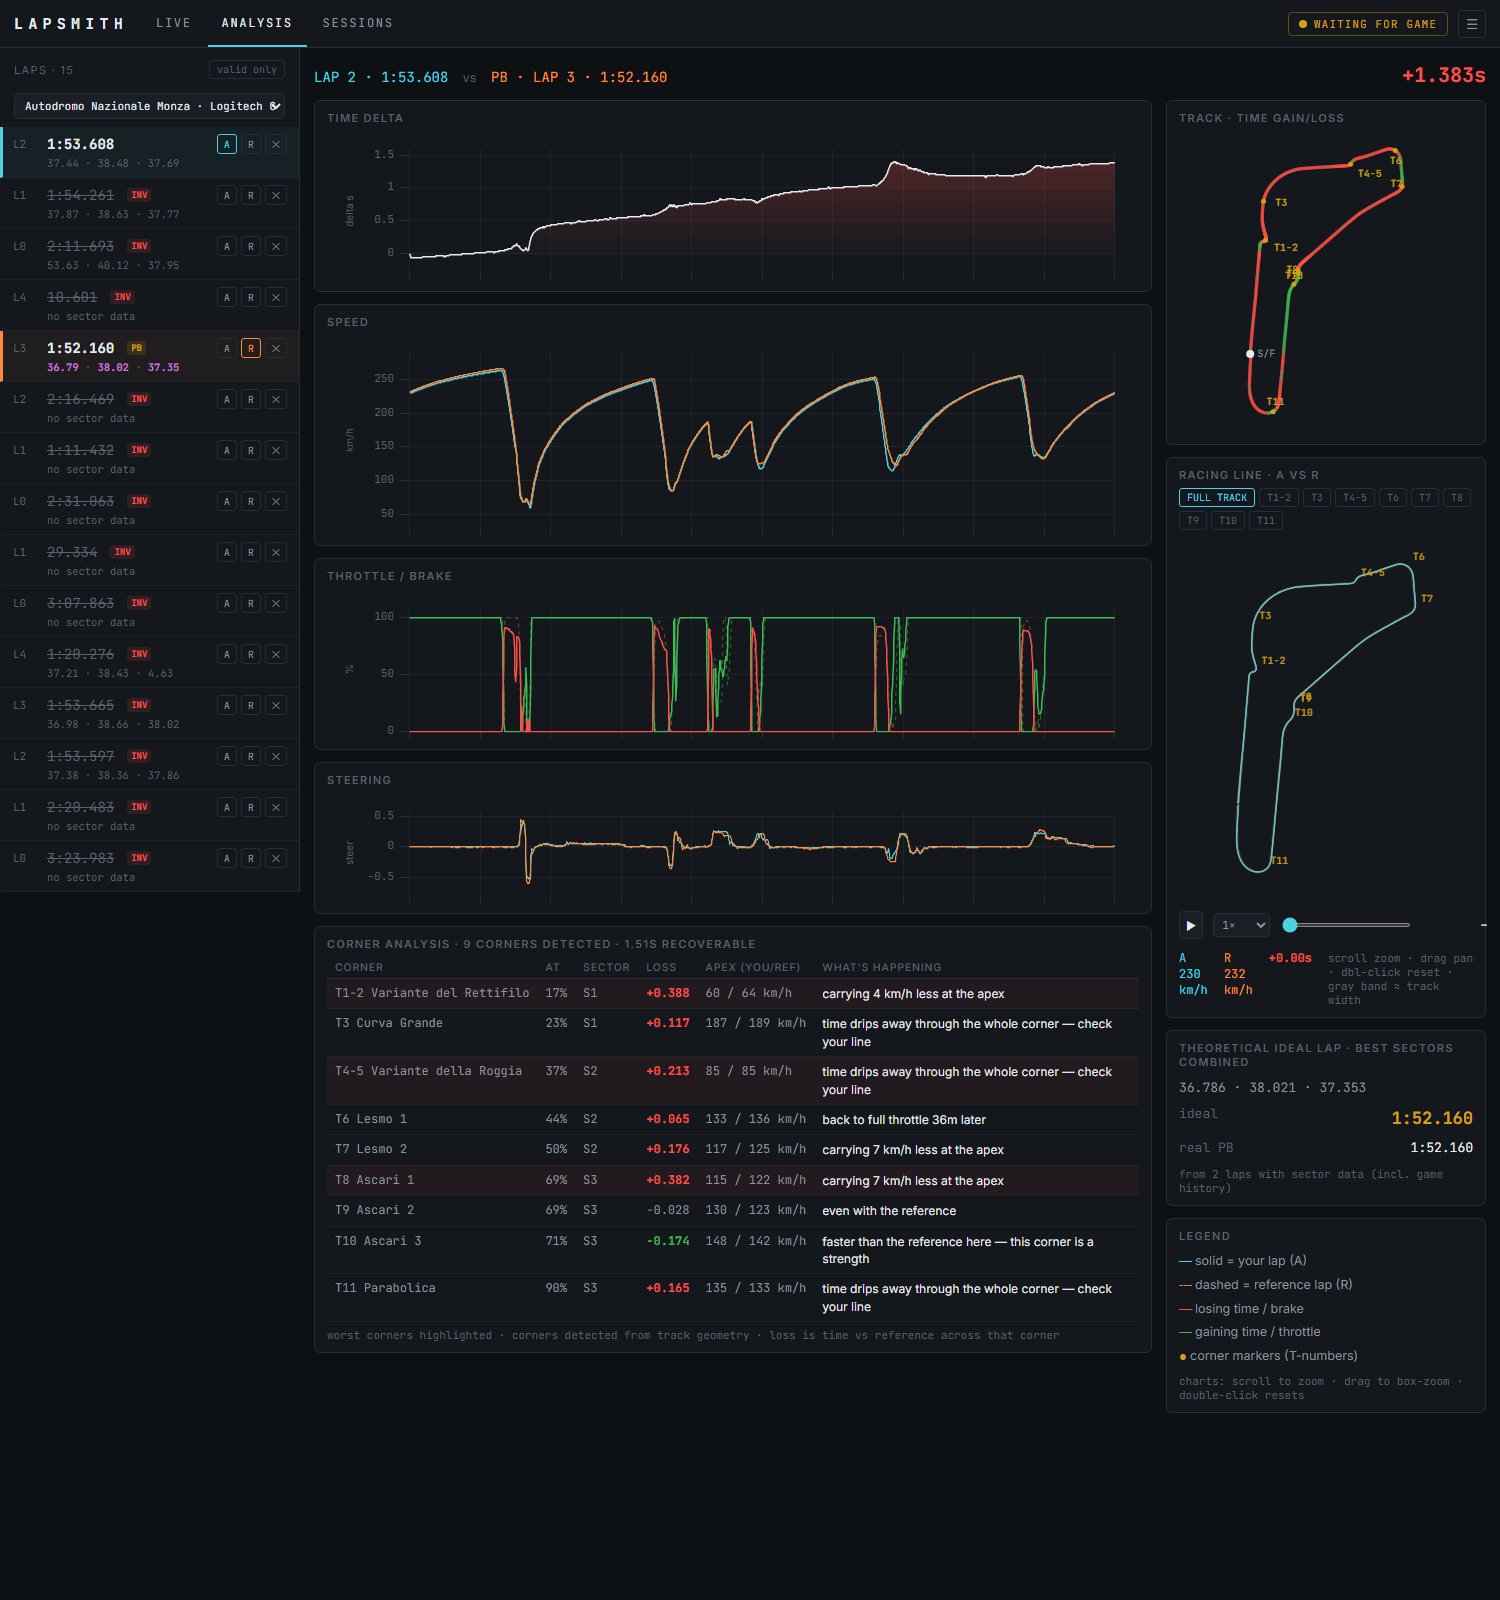
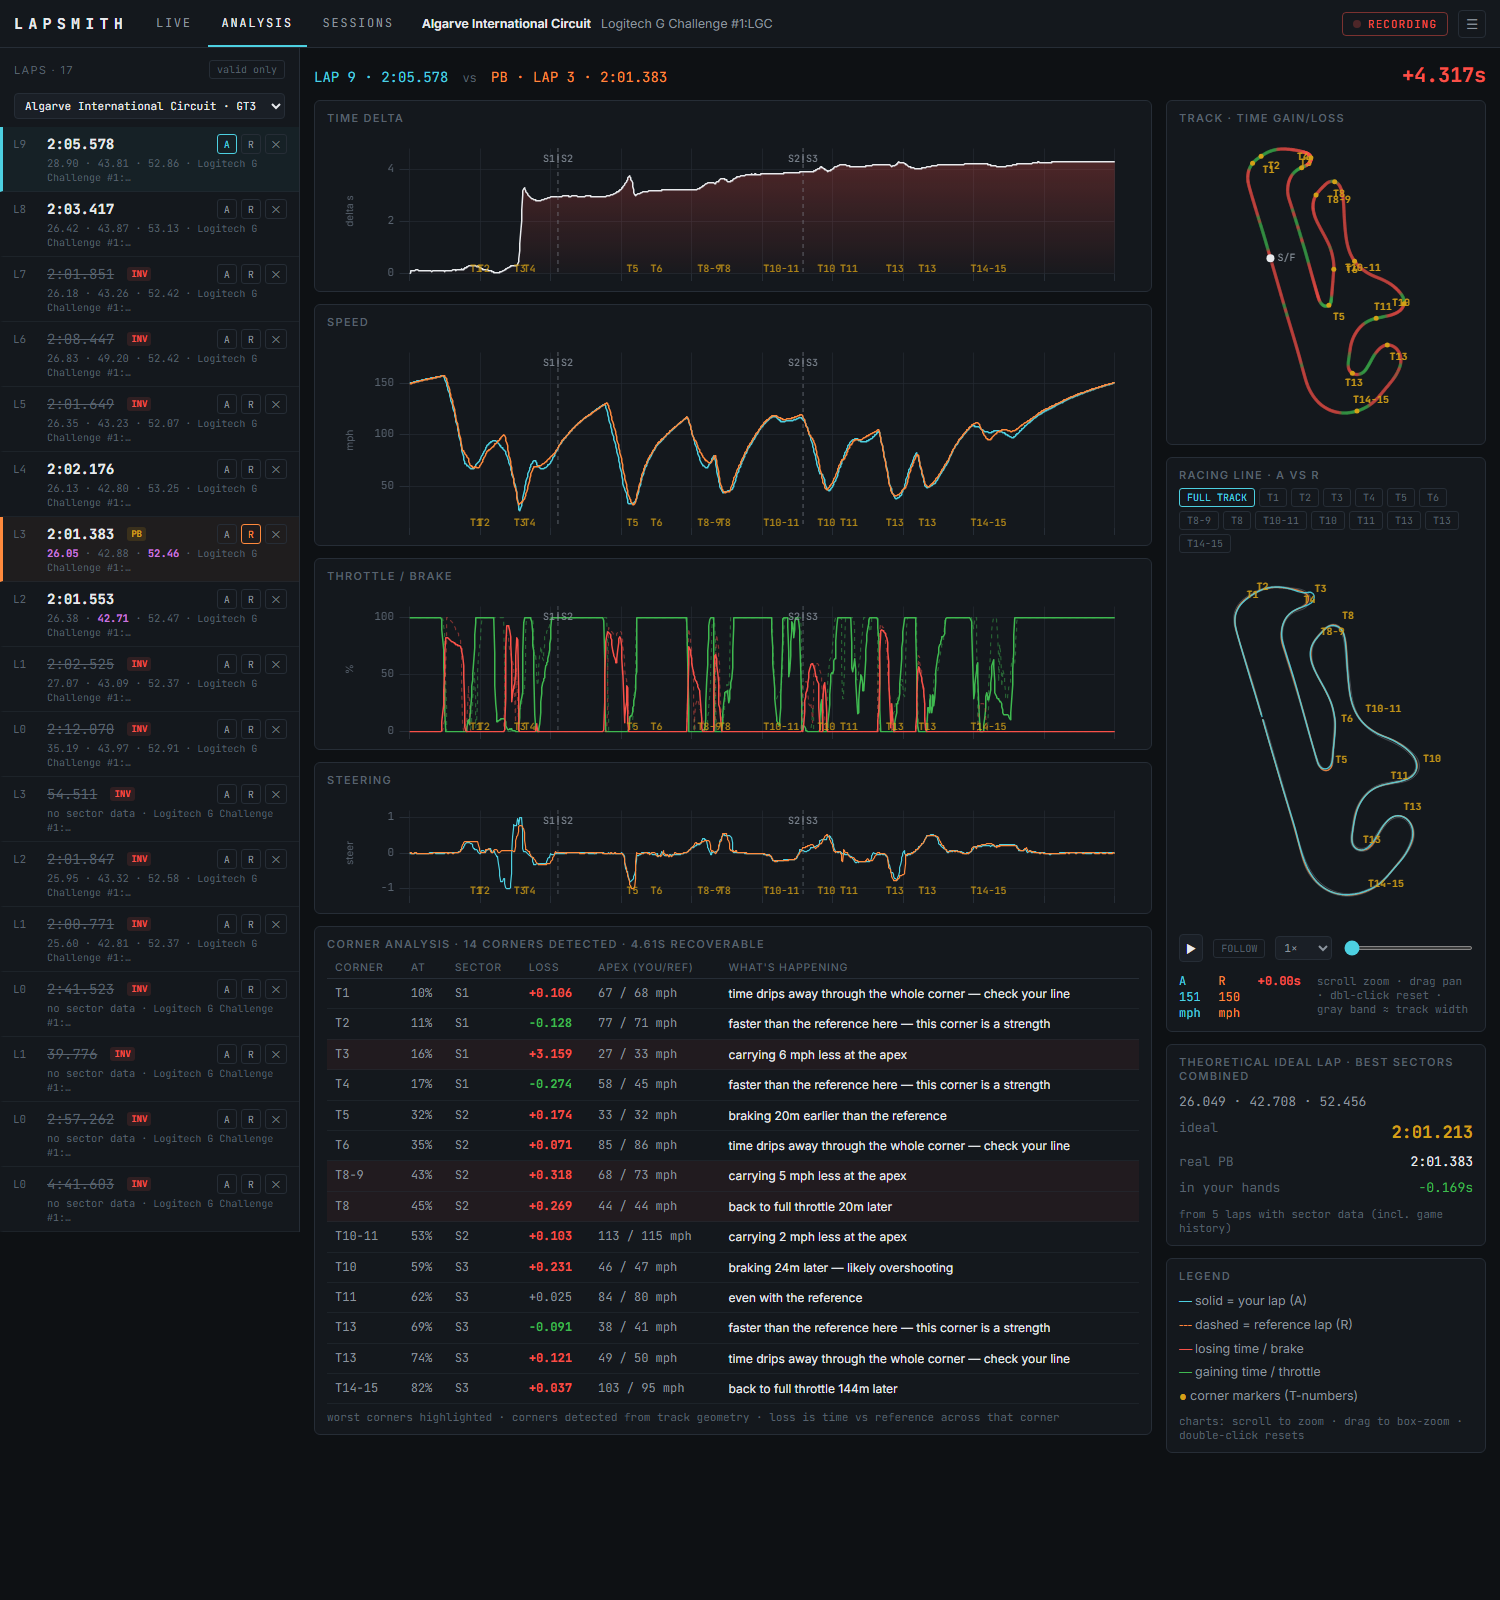
DEVLOG week-2 catch-up, aligned architecture diagram, fresh screenshot

diff --git a/DEVLOG.md b/DEVLOG.md
@@ -305,6 +305,62 @@ official turns across 9 zones; Sebring School shows its 7 real corners.
 
 ---
 
+## 2026-07-09 → 07-16 — Week 2: Classes, rivals, overlays, real roads
+
+*(Catch-up entry — these shipped across several sessions.)*
+
+### Class-based everything
+PBs, the ideal lap, and filtering now group by car class (Hyper, GT3,
+LMP3…) read live from shared memory and from the game's result logs —
+comparing a Hypercar lap to a GT3 lap was never a fair fight. Existing
+laps backfilled by mapping car names to classes from the logs.
+
+### Capturing faster drivers, live
+The same shared memory that carries your car carries every car. The
+engine now records all same-class opponents during a session and keeps
+two kinds of reference laps: any lap faster than everything in the
+library, and the best lap of the fastest driver you actually raced.
+First online race (Algarve) promptly flooded the library — a dozen
+humans improving simultaneously beat the in-memory keep-logic — so the
+rule moved into SQL as an idempotent prune the database enforces after
+every save. **Lesson: invariants belong in the data layer, not in
+whoever remembered to update a variable.**
+
+### In-game overlay (v1 → v2)
+A transparent, always-on-top Electron window over the game: a rolling
+~800 m trace of the reference lap's throttle/brake with your live inputs
+drawn on top, your pedal bars, and a gear digit with the revs wrapped
+around it as a ring. Movable, corner-resize scales everything (30%–250%),
+stacked or lengthwise layout, auto-hides in menus (the engine only
+streams frames while the sim is live — silence *is* the menu detector).
+Launched from the app's menu via a one-endpoint spawn.
+
+### Empirical track edges
+Sims don't publish surveyed track boundaries, so Lapsmith builds them
+from evidence: every valid lap is a sample of legal road; project each
+onto the reference line's normals and the min/max envelope (plus half a
+car width) traces the road actually used. Every session sharpens the
+outline. Off-track laps are excluded — they'd literally draw the crash
+into the map. (A reconstructed centerline from the sim's undocumented
+lateral-offset channel was tried first and reverted: wrong-sign flips
+put the corridor in the scenery. **Lesson: revert fast when the data
+source can't be trusted; find evidence you can generate yourself.**)
+
+### The launcher saga
+Windows App Control intermittently blocked the venv's python.exe; the
+launcher grew a two-path fallback that misfired silently, and "works on
+my shell" turned out to be environment contamination (PYTHONPATH set in
+the dev shell, absent on a double-click). Now: one deterministic
+environment for any interpreter, engine output captured to
+data\engine.log, and the browser only opens once the engine actually
+answers. **Lesson: test in the user's environment, not yours — and make
+failures leave evidence.**
+
+### Library today
+529 laps · 91 sessions · 12 tracks · 104 captured rival laps · 3 classes.
+
+---
+
 ## Design principles that emerged (running list)
 
 1. **Wall off what varies.** One adapter per sim; everything else is shared.

diff --git a/README.md b/README.md
@@ -68,10 +68,10 @@ Details in [docs/SETUP_LMU.md](docs/SETUP_LMU.md).
 ## How it works
 
 ```
-┌──────────────┐  normalized   ┌───────────────┐  REST + WebSocket  ┌──────────┐
-│ Game adapter  │ ── frames ──▶ │ Engine         │ ─────────────────▶ │ UI        │
-│ (LMU, sim...) │   (50 Hz)     │ record·analyze │                    │ React     │
-└──────────────┘               └───────────────┘                    └──────────┘
+┌──────────────┐             ┌──────────────┐              ┌──────────────┐
+│ game adapter │ ─ frames ─► │    engine    │ ─ REST/WS ─► │  UI/overlay  │
+│  (LMU, sim)  │   (50 Hz)   │ record+math  │              │    React     │
+└──────────────┘             └──────────────┘              └──────────────┘
 ```
 
 Laps are compared **by track position, not by time**, so corners line up